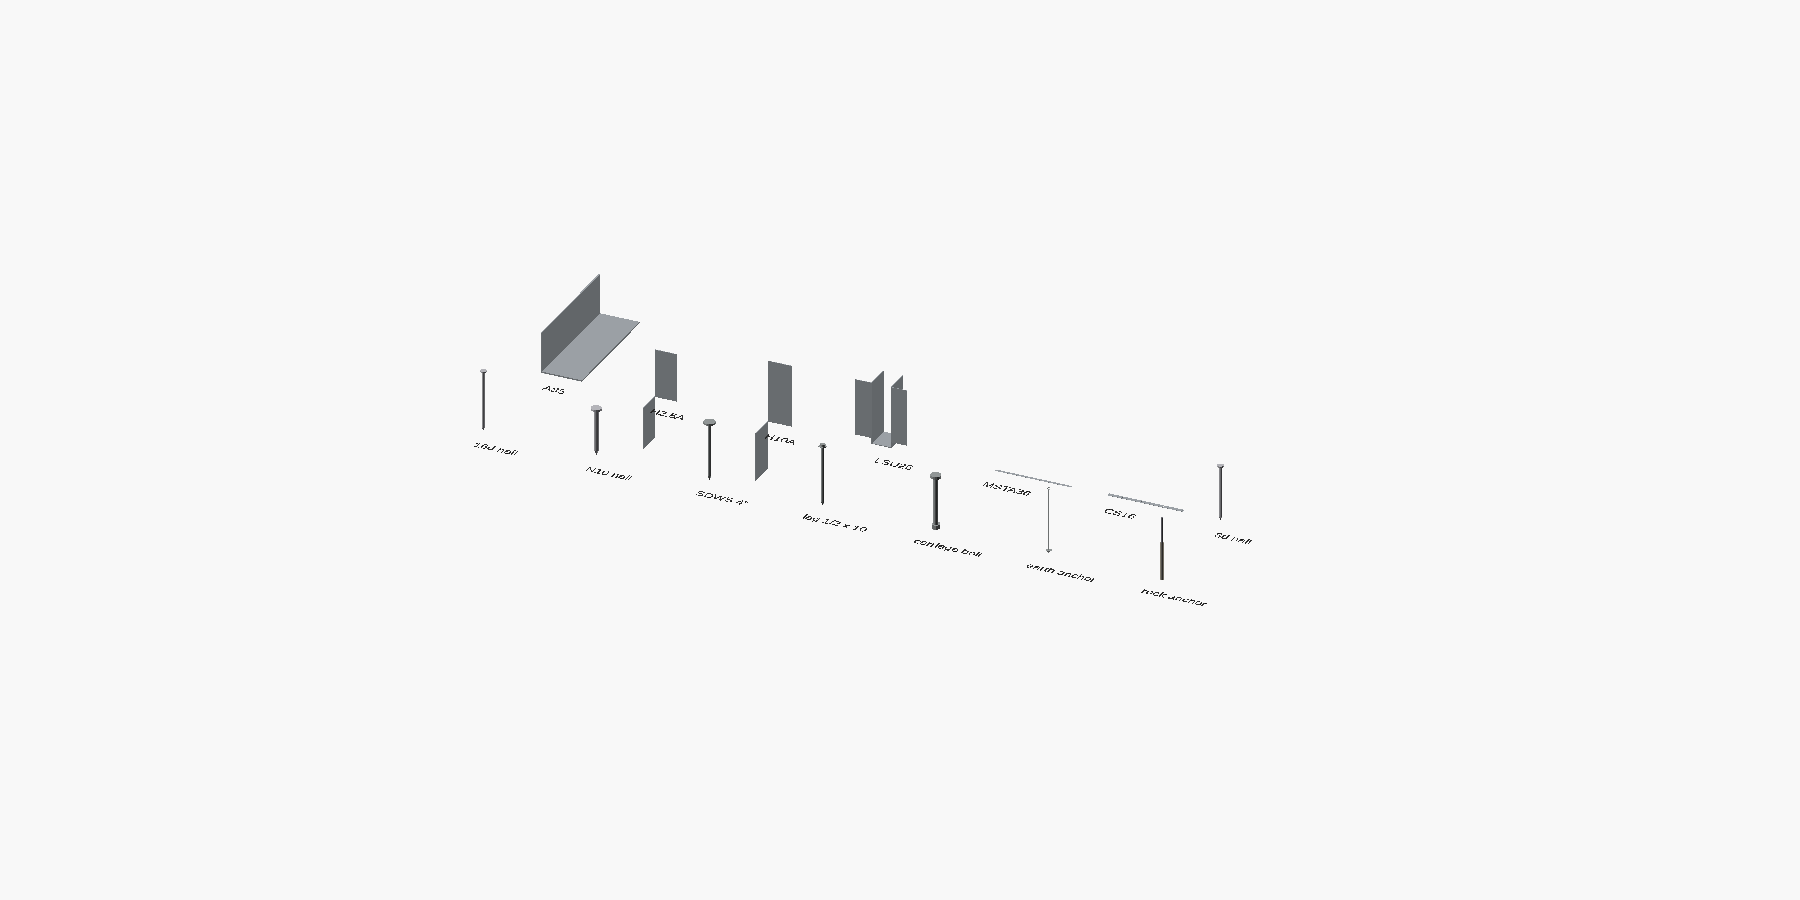
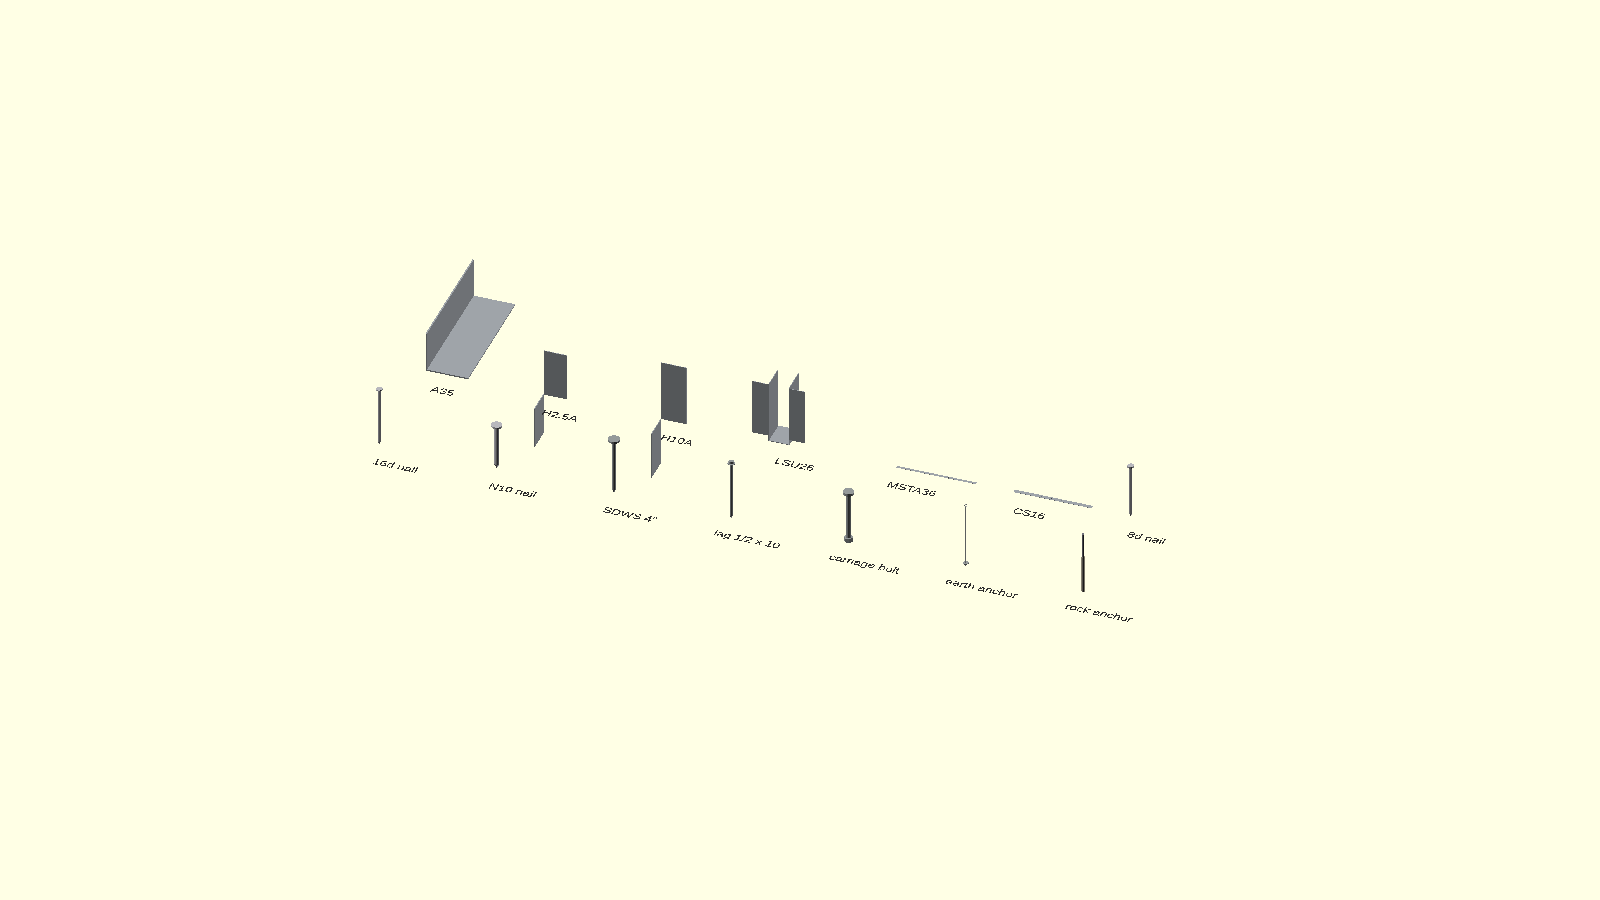
Adapt to NeoSCAD 0.7: feature detection, polyline profiles, to_world and parts
- sketches.scad: fs_feature(name) reads $neoscad_features, so FS_SKETCH
  defaults to whether the sketch extension is on (OpenSCAD gets polygons
  with no switch to set); profile() is a polyline(constrain = "fixed").
- lumber.scad: with --enable query, members report world coordinates
  through to_world() under any transform; xf() and friends remain for
  OpenSCAD. With --enable part, every member is a part() named by its
  tag and world corner, so SVG/DXF exports keep one outline per member.
- tools/collide.py keeps its scratch files beside the model so includes
  resolve through the model's project (scad.toml); --enable query.
- README: scad.toml install (neoscad add) first; the extension table.

diff --git a/tools/collide.py b/tools/collide.py
@@ -10,6 +10,7 @@ framing passed as arguments (default: frame()/walls() and roof()).
 """
 import os
 import re
+import shutil
 import subprocess
 import sys
 import tempfile
@@ -24,7 +25,8 @@ def run(path, body, out):
     open(scad, "w").write(src)
     if os.path.exists(out):
         os.remove(out)
-    r = subprocess.run([NEOSCAD, "--enable", "sketch", "--backend=manifold", "-o", out, scad], capture_output=True, text=True)
+    r = subprocess.run([NEOSCAD, "--enable", "sketch", "--enable", "query", "--backend=manifold", "-o", out, scad],
+                       capture_output=True, text=True)
     return r.stderr
 
 
@@ -45,7 +47,16 @@ def volume(stl):
 
 
 def main(path, mods):
-    tmp = tempfile.mkdtemp()
+    # The scratch files live beside the model so its includes resolve through the same
+    # project (scad.toml / .scad/libraries) as the model itself.
+    tmp = tempfile.mkdtemp(prefix=".collide-", dir=os.path.dirname(os.path.abspath(path)))
+    try:
+        return check(path, mods, tmp)
+    finally:
+        shutil.rmtree(tmp, ignore_errors=True)
+
+
+def check(path, mods, tmp):
     out = f"{tmp}/x.stl"
     calls = " ".join(f"{m};" for m in mods)
     echo = run(path, f"union() {{ {calls} }}", f"{tmp}/all.echo".replace(".echo", ".stl"))

diff --git a/tools/cutlist.py b/tools/cutlist.py
@@ -1,7 +1,7 @@
 #!/usr/bin/env python3
 """Turn a shed model's echo output into a cut list and a lumber-yard order.
 
-    neoscad --enable sketch -o model.echo model.scad      # no -q: it suppresses ECHO
+    neoscad --enable sketch --enable query -o model.echo model.scad   # no -q: it suppresses ECHO
     python3 tools/cutlist.py model.echo > order.md
 
 Each framing member echoes CUT|tag|nominal|length_in; sheet goods echo

diff --git a/README.md b/README.md
@@ -8,11 +8,25 @@ and construction drawings. It grew out of designing a 10' × 12' timber shed.
 
 ## Install
 
-OpenSCAD and NeoSCAD have no package manager: `include <FramingSCAD/framing.scad>` is a path that
-must resolve either next to your file or in a library search folder. Pick one of these.
+`include <FramingSCAD/framing.scad>` is a path that must resolve next to your file or in a library
+search folder. Pick one of these.
 
-**A. Per project, pinned (recommended).** Add the library as a git submodule and include it by
-relative path. Every project records the exact commit it was built with.
+**A. As a project dependency (NeoSCAD 0.7 and later, recommended).** One command records the library
+and its exact commit in `scad.toml` / `scad.lock`, checks it out once per machine into a shared store
+and links it into `<project>/.scad/libraries`:
+
+```sh
+neoscad add FramingSCAD --git https://github.com/the-ned-workshop/FramingSCAD --tag v0.1.0
+```
+```scad
+include <FramingSCAD/framing.scad>
+```
+A fresh clone of the project needs only `neoscad fetch`. Stock OpenSCAD renders the same files after
+`export $(neoscad vendor)` or with `OPENSCADPATH=$(neoscad fetch --print-path)`; see NeoSCAD's
+[dependencies guide](https://github.com/neoscad/neoscad/blob/main/docs/dependencies.md). The same
+`scad-deps` command line is available on its own (`cargo install scad-deps --features cli`).
+
+**B. As a git submodule.** Pinned and portable, included by relative path.
 
 ```sh
 git submodule add https://github.com/the-ned-workshop/FramingSCAD.git lib/FramingSCAD
@@ -20,9 +34,8 @@ git submodule add https://github.com/the-ned-workshop/FramingSCAD.git lib/Framin
 ```scad
 include <lib/FramingSCAD/framing.scad>   // relative to the including file
 ```
-Update later with `git -C lib/FramingSCAD pull` (or check out a tag) and commit the new pointer.
 
-**B. Once per machine.** Clone into the user library folder, or into any folder on `OPENSCADPATH`,
+**C. Once per machine.** Clone into the user library folder, or into any folder on `OPENSCADPATH`,
 and every model on the machine can `include <FramingSCAD/framing.scad>`. It's simpler, but unpinned:
 every project sees whatever version is checked out.
 
@@ -35,14 +48,18 @@ git clone https://github.com/the-ned-workshop/FramingSCAD.git ~/Documents/OpenSC
 
 ## NeoSCAD and OpenSCAD
 
-| | Profiles are drawn as | Run with |
-|---|---|---|
-| **NeoSCAD** (recommended) | fully constrained sketches (`strict = true`): change a dimension and exactly the right thing moves; an under- or over-constrained profile is an error | `neoscad --enable sketch …` |
-| **OpenSCAD** (2021.01 and later) | plain `polygon()` / `circle()` geometry, same shapes | `openscad -D FS_SKETCH=false …`, or set `FS_SKETCH = false;` after the `include` |
+The library runs in both and adapts itself: `$neoscad_features` (unbound in OpenSCAD) says which
+NeoSCAD extensions are on, and `fs_feature("sketch")` and friends read it.
 
-Everything else, including members, echo lines, tools and hardware, works the same in both. Plain
-NeoSCAD without `--enable sketch` also needs `FS_SKETCH = false`. Neither program lets a file detect
-the sketch extension, so the switch is explicit. Units are inches.
+| NeoSCAD extension | On (`neoscad --enable …`) | Off, or OpenSCAD (2021.01 and later) |
+|---|---|---|
+| `sketch` | every profile is a fully constrained sketch (`polyline(…, constrain = "fixed")`, `strict = true`): change a dimension and exactly the right thing moves; an under- or over-constrained profile is an error | the same shapes as plain `polygon()` / `circle()` |
+| `query` | members report world coordinates through `to_world()`, whatever `translate()` / `rotate()` / `mirror()` is around them | members report world coordinates only inside `xf()` / `along_y()` / `mirror_about_x()` placements |
+| `part` | every member is a `part()` named `"<tag> <world corner>"`, so an SVG or DXF export through `projection()` keeps one outline per member | members are plain groups; 2D exports union touching members |
+
+Run NeoSCAD with `--enable sketch --enable query --enable part` for all three (one flag each). To force
+the plain geometry anyway, `-D FS_SKETCH=false` or `FS_SKETCH = false;` after the `include`. Units
+are inches.
 
 ```scad
 include <FramingSCAD/framing.scad>
@@ -57,8 +74,8 @@ translate([0, 30, 0]) h2_5a(count = true);               // hardware; count = tr
 
 | File | Contents |
 |---|---|
-| `lumber.scad` | `stick()`, `slab_xz()`, `slab_yz()` members; `rafter_profile()`; `dressed()` sizes; `sheet()`, `item()` order lines; `xf()`, `T()`, `along_y()`, `mirror_about_x()` placement transforms; `$noms`/`$tags` member filters |
-| `sketches.scad` | `FS_SKETCH` switch; `profile(name, points)`: a closed polygon as a fully constrained sketch (or a polygon); `rect_profile()`, `strap_profile()` (strap with fastener holes), `pin_profile()` (revolved fastener half-profile) |
+| `lumber.scad` | `stick()`, `slab_xz()`, `slab_yz()` members (each a `part()` under `--enable part`); `rafter_profile()`; `dressed()` sizes; `sheet()`, `item()` order lines; `xf()`, `T()`, `along_y()`, `mirror_about_x()` placement transforms; `$noms`/`$tags` member filters |
+| `sketches.scad` | `fs_feature(name)` and the `FS_SKETCH` switch; `profile(name, points)`: a closed polygon as a fully constrained sketch (or a polygon); `rect_profile()`, `strap_profile()` (strap with fastener holes), `pin_profile()` (revolved fastener half-profile) |
 | `connectors.scad` | Simpson Strong-Tie-style schematic connectors: `a35()`, `h2_5a()`, `h10a()`, `lsu26()`, `face_hanger()`, `msta(l)`, `cs16(l)`, `post_cap()`, `angle_clip()`, `strap()` |
 | `fasteners.scad` | `nail("6d"|"8d"|"10d"|"16d"|"N10")`, `sdws(len)`, `lag(d, len)`, `carriage_bolt(d, len)`, `earth_anchor(len)`, `rock_anchor(len, d)` |
 | `framing.scad` | includes everything |
@@ -82,21 +99,27 @@ SHEET|tag|kind|square feet                       sheet goods          → order
 ITEM|tag|what|count                              bought items         → order
 ```
 
-World coordinates work because placements go through `xf(matrix)`, which multiplies `$M`. Plain
-`translate()`/`mirror()` still draw correctly, but the members inside them report local coordinates.
+Under NeoSCAD with `--enable query`, members read their own transform (`to_world()`), so any
+placement reports world coordinates. Elsewhere they work because placements go through `xf(matrix)`,
+which multiplies `$M`: plain `translate()`/`mirror()` still draw correctly, but the members inside
+them report local coordinates.
 
 ## Tools
 
 ```sh
 NEOSCAD=/Applications/NeoSCAD.app/Contents/Helpers/neoscad
-$NEOSCAD --enable sketch -o model.echo model.scad        # don't pass -q: it suppresses ECHO
-# OpenSCAD: openscad -D FS_SKETCH=false -o model.echo model.scad
+$NEOSCAD --enable sketch --enable query -o model.echo model.scad   # don't pass -q: it suppresses ECHO
+# OpenSCAD: openscad -o model.echo model.scad
 python3 tools/cutlist.py model.echo > order.md
 python3 tools/collide.py model.scad "frame()" "roof()"   # module calls that build the framing
+# one outline per member, for drawings:
+$NEOSCAD --enable sketch --enable query --enable part -o front.svg front_view.scad   # projection() of the model
 ```
 
 `collide.py` needs the model's top-level calls wrapped in `if (is_undef(model_only)) { … }` so it can
-include the file and call the framing modules itself.
+include the file and call the framing modules itself; its scratch files go beside the model so they
+share its project. The tools are also at `.scad/libraries/FramingSCAD/tools/` in a project that
+depends on the library.
 
 ## Conventions
 
